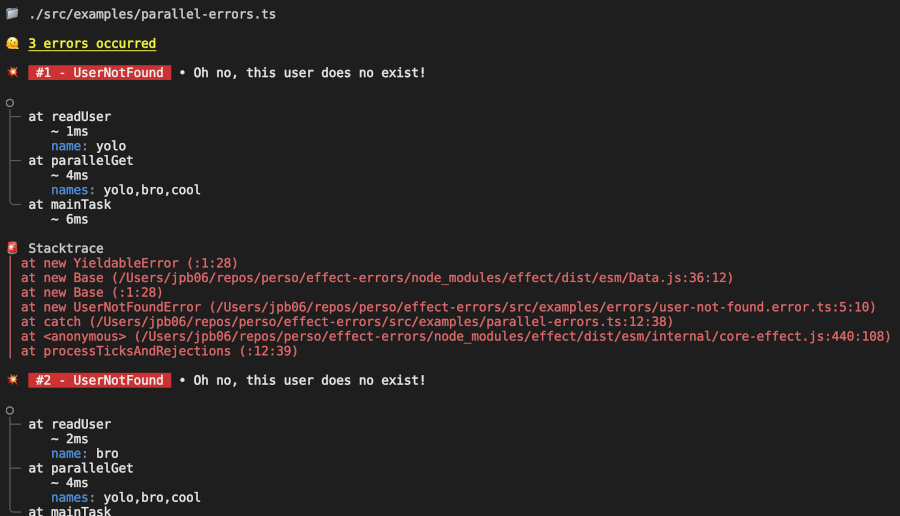
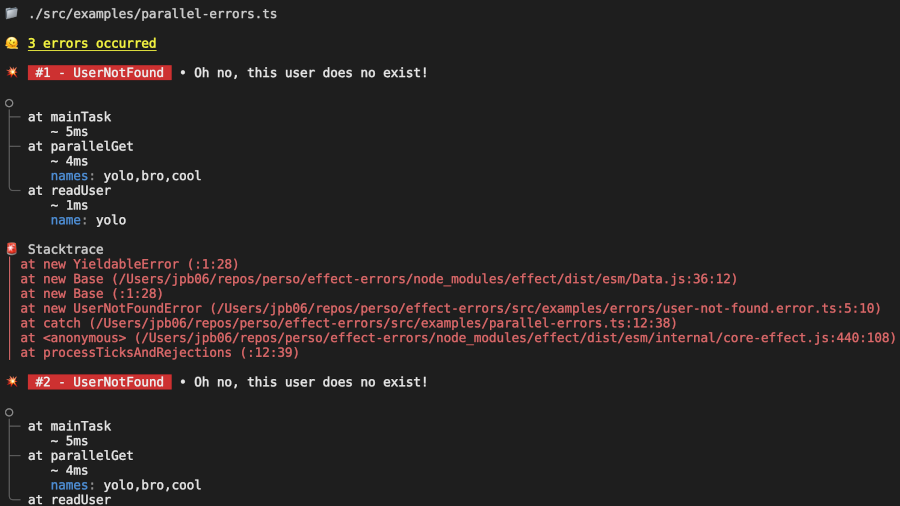
feat(spans): reverse order

diff --git a/src/pretty-print.ts b/src/pretty-print.ts
@@ -3,11 +3,11 @@ import { Option } from 'effect';
 import { Cause, isInterruptedOnly } from 'effect/Cause';
 import { ParentSpan, Span } from 'effect/Tracer';
 
-import { filterStack } from './logic/filter-stack';
-import { getSpanAttributes } from './logic/get-span-attributes';
-import { getSpanDuration } from './logic/get-span-duration';
-import { prettyErrors } from './logic/pretty-errors';
-import { spanStackTrailingChar } from './logic/spans-stack-trailing-char';
+import { captureErrorsFrom } from './logic/errors/capture-errors-from-cause';
+import { getSpanAttributes } from './logic/spans/get-span-attributes';
+import { getSpanDuration } from './logic/spans/get-span-duration';
+import { spanStackTrailingChar } from './logic/spans/spans-stack-trailing-char';
+import { filterStack } from './logic/stack/filter-stack';
 import { stripCwdPath } from './logic/strip-cwd-path';
 import {
   PrettyPrintOptions,
@@ -22,7 +22,7 @@ export const prettyPrint = <E>(
     return 'All fibers interrupted without errors.';
   }
 
-  const failures = prettyErrors<E>(cause);
+  const failures = captureErrorsFrom<E>(cause);
 
   console.error(
     `\r\n🫠  ${chalk.bold.yellowBright.underline(
@@ -48,6 +48,7 @@ export const prettyPrint = <E>(
             : '') +
           message +
           spans
+            .reverse()
             .map(({ name, attributes, status }, index) => {
               const isFirstEntry = index === 0;
               const isLastEntry = index === spans.length - 1;

diff --git a/src/logic/errors/parse-error.ts b/src/logic/errors/parse-error.ts
@@ -1,13 +1,13 @@
 import { hasProperty } from 'effect/Predicate';
 import { Span } from 'effect/Tracer';
 
-import { PrettyError } from '../types/pretty-error.type';
+import { PrettyError } from '../../types/pretty-error.type';
 
 import { prettyErrorMessage } from './pretty-error-message';
 
 const spanSymbol = Symbol.for('effect/SpanAnnotation');
 
-export const defaultRenderError = (error: unknown): PrettyError => {
+export const parseError = (error: unknown): PrettyError => {
   const span = (hasProperty(error, spanSymbol) && error[spanSymbol]) as Span;
   if (error instanceof Error) {
     return new PrettyError(

diff --git a/src/logic/errors/capture-errors-from-cause.ts b/src/logic/errors/capture-errors-from-cause.ts
@@ -1,0 +1,15 @@
+import { Cause, reduceWithContext } from 'effect/Cause';
+
+import { PrettyError } from '../../types/pretty-error.type';
+
+import { parseError } from './parse-error';
+
+export const captureErrorsFrom = <E>(cause: Cause<E>): readonly PrettyError[] =>
+  reduceWithContext(cause, void 0, {
+    emptyCase: (): readonly PrettyError[] => [],
+    dieCase: (_, unknownError) => [parseError(unknownError)],
+    failCase: (_, error) => [parseError(error)],
+    interruptCase: () => [],
+    parallelCase: (_, l, r) => [...l, ...r],
+    sequentialCase: (_, l, r) => [...l, ...r],
+  });

diff --git a/src/logic/spans/get-span-attributes.ts b/src/logic/spans/get-span-attributes.ts
@@ -8,10 +8,12 @@ export const getSpanAttributes = (
     return '';
   }
 
-  return `${`\r\n${Array.from(attributes.entries())
+  const formattedAttributes = Array.from(attributes.entries())
     .map(
       ([key, value]) =>
         `${isLastEntry ? ' ' : chalk.gray('│')}     ${chalk.blue(key)}${chalk.gray(':')} ${value}`,
     )
-    .join('\r\n')}`}`;
+    .join('\r\n');
+
+  return `${`\r\n${formattedAttributes}`}`;
 };

diff --git a/src/logic/errors/pretty-error-message.ts b/src/logic/errors/pretty-error-message.ts
@@ -22,6 +22,7 @@ export const prettyErrorMessage = (u: unknown): string => {
     return `${chalk.bgRed(` ${u._tag} `)} ${chalk.bold.whiteBright(`• ${u.message}`)}\r\n`;
   }
 
+  // Plain objects with toString impl
   if (
     hasProperty(u, 'toString') &&
     isFunction(u['toString']) &&

diff --git a/src/logic/stack/filter-stack.ts b/src/logic/stack/filter-stack.ts
@@ -1,4 +1,4 @@
-import { stripCwdPath } from './strip-cwd-path';
+import { stripCwdPath } from '../strip-cwd-path';
 
 export const filterStack = (stack: string, stripCwd: boolean) => {
   const lines = stack.split('\n');
